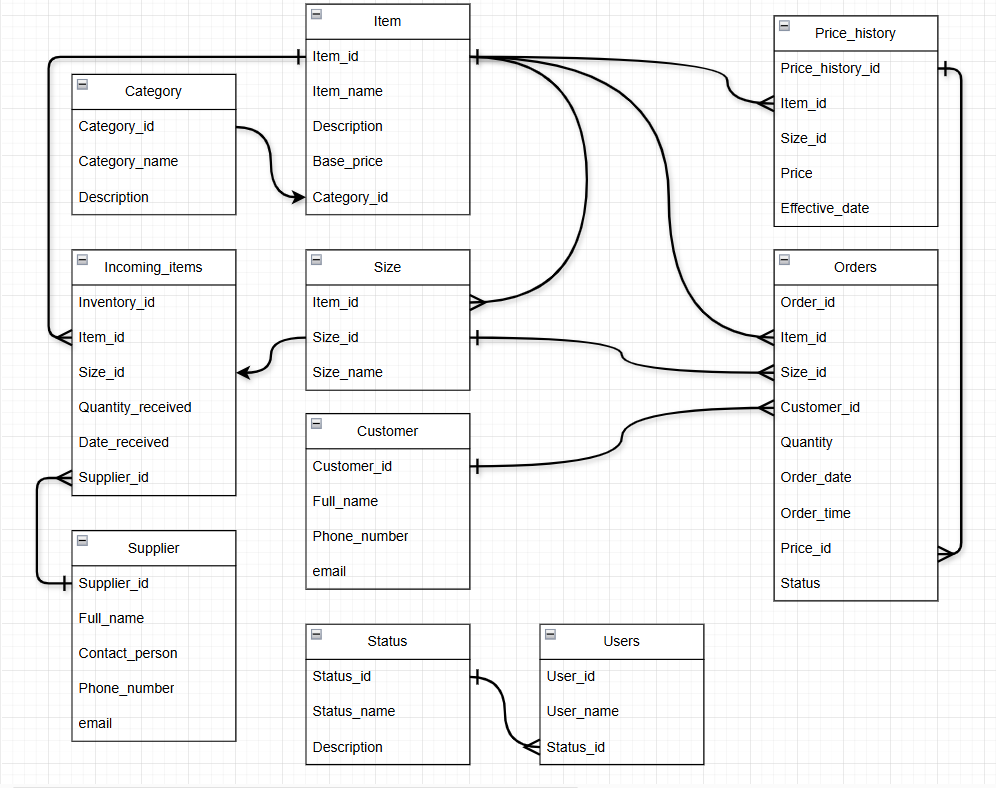
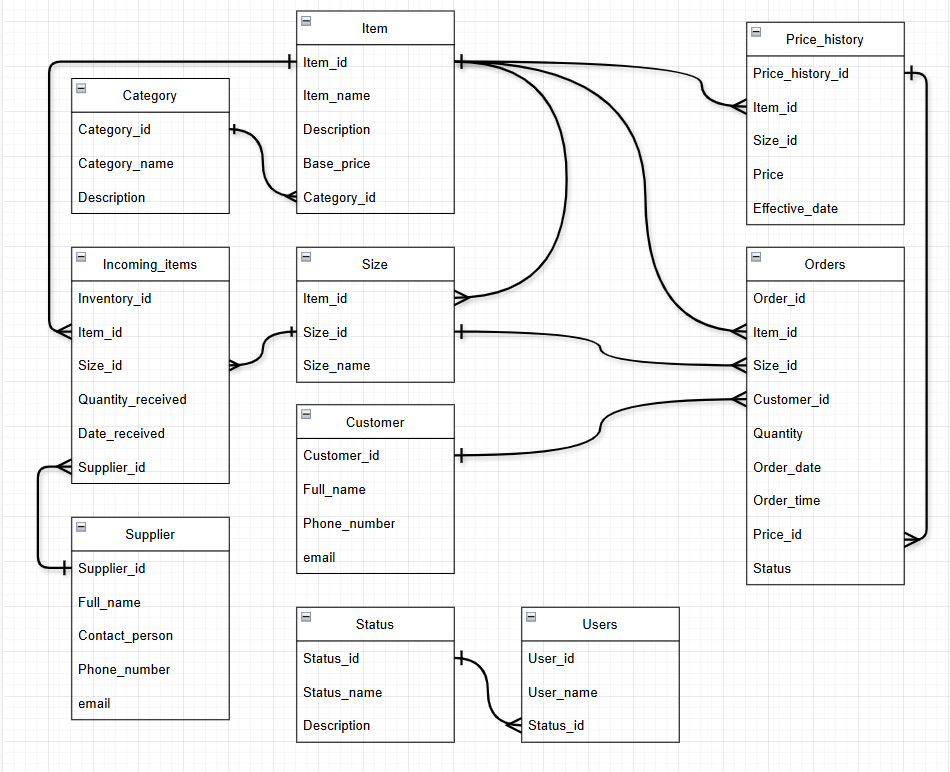
each model are currently being edited, supplier, item, catagory and supplier models were changed

diff --git a/baltena/Inventory/models.py b/baltena/Inventory/models.py
@@ -1,27 +1,88 @@
 from django.db import models
 
-class Item(models.Models):      # for inserting item name and description
-    name = varcharfield(max_limit = 100)
-    description = textfield()
-    pass
+class Category(models.Model):
+    category_name = models.Charfield(max_length=100)
+    description = models.CharField(max_length=255)
 
-class Size(models.Models):      # for inserting the different sizes of the item is prepared or sold
-    pass
+    def __str__(self):
+        return self.category_name
+    
+class Item(models.Model):
+    item_name = models.Charfield(max_length=100)
+    description = models.TextField()
+    base_price = models.DecimalField(max_digits=10, decimal_places=2)
+    category = models.ForeignKey(Category, on_delete=models.CASCADE, related_name='items')
 
-class Price(models.Models):     # for the price of different items at different times
-    pass
+    def __str__(self):
+        return self.description
 
-class Amount(models.Models):        # for registering and controlling the amount of items available at any given time
-    pass
+class PriceHistory(models.Model):
+    item = models.ForeignKey(Item, on_delete=models.CASCADE, related_name='price_history')
+    price = models.DecimalField(max_digits=10, decimal_places=2)
+    effective_date = models.DateField()
 
-class Incoming(models.Models):      # for inserting newly prepared items
-    pass
+    def __str__(self):
+        return f"{self.item.description} - {self.price} on {self.effective_date}"
 
-class Sales(models.Models):     # for registering sold items
-    pass
 
-class Customer(models.Models):      # for registering the name of the buyers
-    name
-    gender
-    email
-    pass
+class IncomingItems(models.Model):
+    inventory_id = models.AutoField(primary_key=True)
+    item = models.ForeignKey(Item, on_delete=models.CASCADE, related_name='incoming_items')
+    size = models.ForeignKey('Size', on_delete=models.CASCADE, related_name='incoming_items')
+    quantity_received = models.PositiveIntegerField()
+
+    def __str__(self):
+        return f"{self.quantity_received} of {self.item.description}"
+
+
+class Size(models.Model):
+    description = models.CharField(max_length=50)
+
+    def __str__(self):
+        return self.description
+
+
+class Orders(models.Model):
+    order_id = models.AutoField(primary_key=True)
+    customer = models.ForeignKey('Customer', on_delete=models.CASCADE, related_name='orders')
+    item = models.ForeignKey(Item, on_delete=models.CASCADE, related_name='orders')
+    quantity = models.PositiveIntegerField()
+    price = models.DecimalField(max_digits=10, decimal_places=2)
+    status = models.ForeignKey('Status', on_delete=models.CASCADE, related_name='orders')
+
+    def __str__(self):
+        return f"Order {self.order_id} by {self.customer}"
+
+
+class Customer(models.Model):
+    full_name = models.CharField(max_length=255)
+    phone_number = models.CharField(max_length=15)
+    email = models.EmailField()
+
+    def __str__(self):
+        return self.full_name
+
+
+class Supplier(models.Model):
+    full_name = models.CharField(max_length=255)
+    contact_person = models.CharField(max_length=255)
+    phone_number = models.CharField(max_length=15)
+
+    def __str__(self):
+        return self.full_name
+
+
+class Status(models.Model):
+    description = models.CharField(max_length=50)
+
+    def __str__(self):
+        return self.description
+
+
+class Users(models.Model):
+    user_id = models.AutoField(primary_key=True)
+    status = models.ForeignKey(Status, on_delete=models.CASCADE, related_name='users')
+    username = models.CharField(max_length=150, unique=True)
+
+    def __str__(self):
+        return self.username
